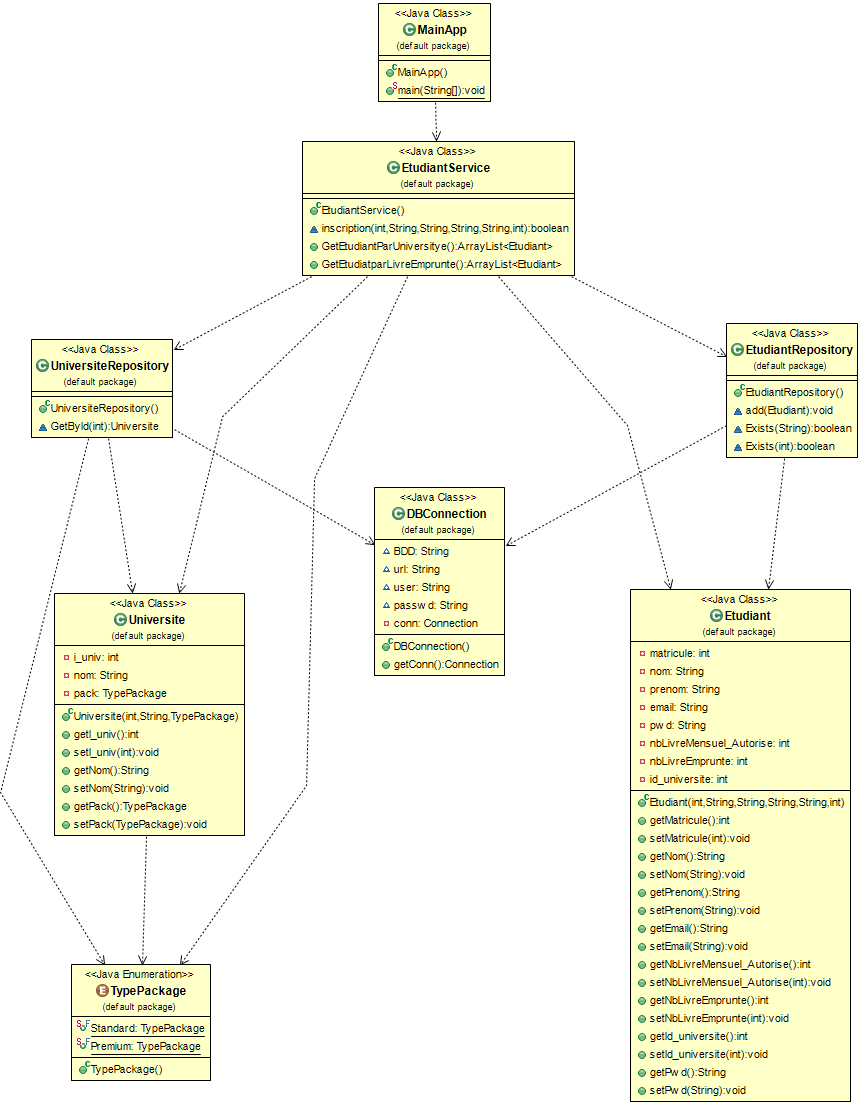
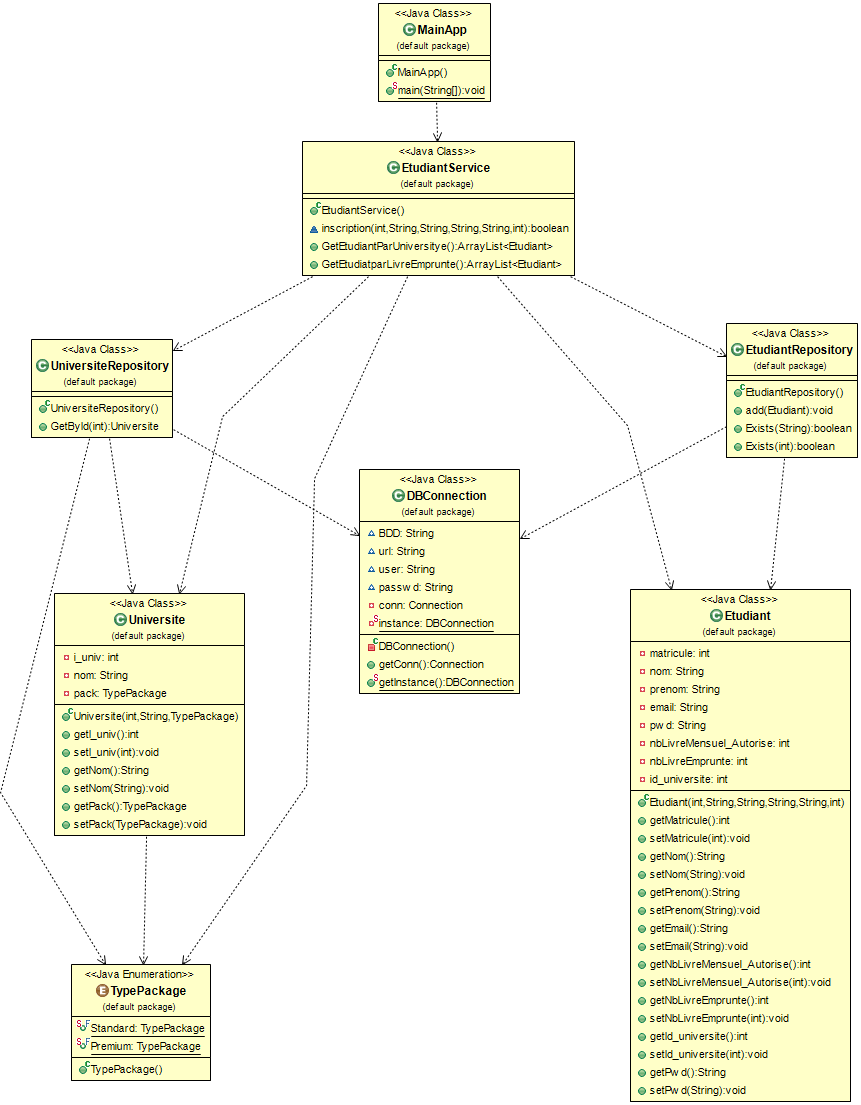
question 5

Changed region(s): [[0.3926, 0.4, 0.6039, 0.6462], [0.8455, 0.3692, 0.8757, 0.4]]

diff --git a/src/EtudiantRepository.java b/src/EtudiantRepository.java
@@ -4,10 +4,10 @@ import java.sql.DriverManager;
 import java.sql.SQLException;
 import java.sql.Statement;
 
-public class EtudiantRepository {
+public class EtudiantRepository implements IEtudiant {
 	
-	
-	void add(Etudiant E) throws SQLException
+	@Override
+	public void add(Etudiant E) throws SQLException
 	{
 		
 		DBConnection BD= DBConnection.getInstance();
@@ -26,8 +26,8 @@ public class EtudiantRepository {
 		//connect.close();
 	 }
 
-
-	boolean Exists(String email) throws SQLException	
+    @Override
+	public boolean Exists(String email) throws SQLException	
 	{
 		DBConnection BD= DBConnection.getInstance();
 		Connection connect= BD.getConn();
@@ -46,7 +46,8 @@ public class EtudiantRepository {
 		return false;
 	}
 	
-	boolean Exists(int mat) throws SQLException	
+    @Override
+	public boolean Exists(int mat) throws SQLException	
 	{
 		DBConnection BD= DBConnection.getInstance();
 		Connection connect= BD.getConn();

diff --git a/src/UniversiteRepository.java b/src/UniversiteRepository.java
@@ -5,10 +5,10 @@ import java.sql.ResultSet;
 import java.sql.SQLException;
 import java.sql.Statement;
 
-public class UniversiteRepository {
+public class UniversiteRepository implements IUniversite {
 	
-	
-	Universite GetById(int universityId) throws SQLException {
+	@Override
+	public Universite GetById(int universityId) throws SQLException {
 		
 		DBConnection BD= DBConnection.getInstance();
 		Connection connect= BD.getConn();

diff --git a/src/MainApp.java b/src/MainApp.java
@@ -10,10 +10,6 @@ public class MainApp {
 		try {
 			serv.inscription(2, "Guendouziiiii", "wassila", "guen@gmail.com","xxxx", 1);
 			
-			
-			//Connection con = DriverManager.getConnection("jdbc:mysql://localhost:3306/egybest","root","");
-			//System.out.println("success");
-			
 		} catch (Exception e) {
 			// TODO Auto-generated catch block
 			e.printStackTrace();

diff --git a/src/IEtudiant.java b/src/IEtudiant.java
@@ -1,0 +1,7 @@
+import java.sql.SQLException;
+
+public interface IEtudiant {
+	public void add(Etudiant E)throws SQLException;
+	public boolean Exists(String email)throws SQLException;
+	public boolean Exists(int mat)throws SQLException;
+}

diff --git a/src/IUniversite.java b/src/IUniversite.java
@@ -1,0 +1,5 @@
+import java.sql.SQLException;
+
+public interface IUniversite {
+	public Universite GetById(int universityId) throws SQLException;
+}
